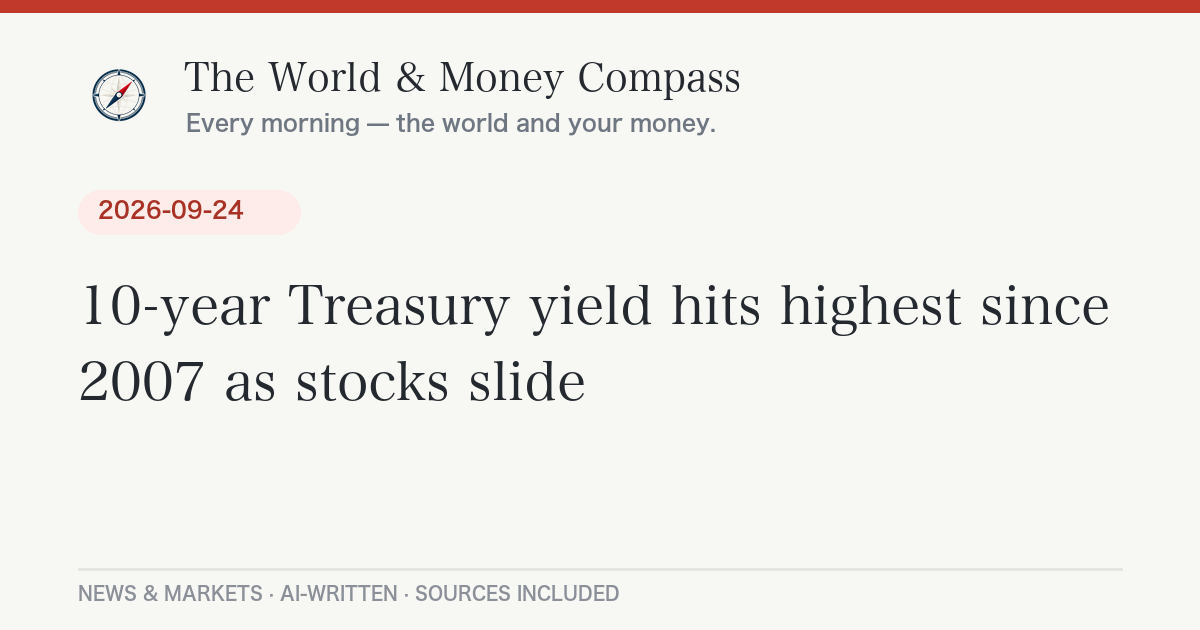
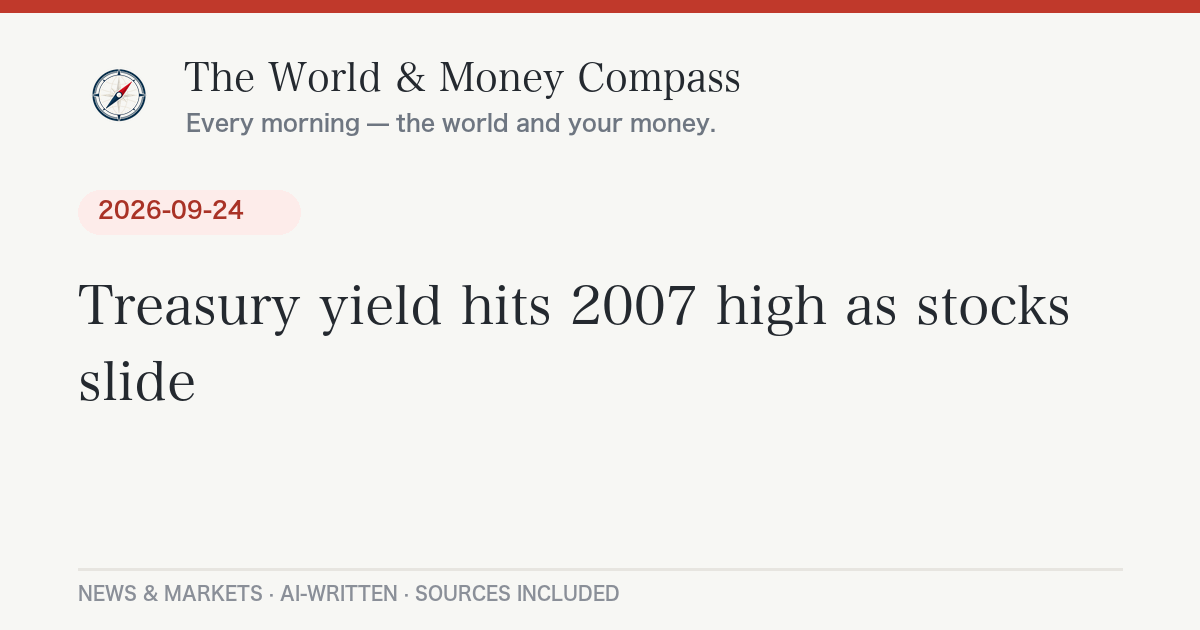
Daily briefing 2026-09-26

Changed region(s): [[0.0617, 0.4524, 0.925, 0.5429], [0.0617, 0.573, 0.4933, 0.6333]]

diff --git a/_posts/2026-09-26-daily-briefing.md b/_posts/2026-09-26-daily-briefing.md
@@ -1,0 +1,109 @@
+---
+layout: post
+lang: ja
+title: "トランプ氏が日米首脳会談で円安に懸念、円は一時157円台に｜9月26日のニュースとお金"
+date: 2026-09-26 07:40:40 +0900
+categories: [ニュース, 経済]
+headline: "トランプ氏が日米首脳会談で円安に懸念、円は一時157円台に"
+permalink: /2026/09/26/daily-briefing/
+---
+
+## 今日のポイント
+
+日米首脳会談でトランプ大統領が「円安」への懸念を伝えていたことが明らかになり、円はいったん買い戻されました。米中は貿易休戦を延長し、中東では停戦に向けた動きへの期待から原油が値下がり。世界の株はそろって上がって週末を迎えましたが、日米とも長期金利は歴史的な高さのままです。
+
+## 今日の羅針盤（Compass Insight）
+
+この1週間を一言でまとめると、「株は強いが、お金を借りるコストは上がり続けている」です。米国の10年国債利回りは2007年以来の水準に達し、日本の長期金利も約30年ぶりの高さにあります。それでも株価が上がっているのは、AI投資の拡大と、米中・中東の緊張が少し和らいだことへの安心感が支えになっているためです。
+
+家計にとって大事なのは、為替の潮目が変わる可能性です。米大統領が首脳会談で円安に触れたことは、日本の財務当局が円安を止める動きをとりやすくなる材料になりえます。円高方向に振れれば、ガソリンや食品など輸入品の値上がりが一服する可能性があります。一方、日本の長期金利の上昇は、固定型の住宅ローン金利や預金金利に少しずつ反映されていきます。これから借りる人・借り換えを考えている人は、金利の動きに注目です。
+
+短期的には、10月のFRB（米国の中央銀行）会合で利上げがあるか、そして中東の停戦協議が本当に前進するかが焦点です。中長期では、日米の金利が「高い状態が当たり前」になるのかどうかが、株式・債券・住宅市場の方向を決めていくことになりそうです。
+
+## 今日のニュース
+
+### 日本
+
+- **トランプ氏が円安に懸念**：22日にニューヨークで開かれた日米首脳会談で、トランプ大統領が足元の円安について懸念を伝えていたことを、片山財務大臣が25日に明らかにしました。高市首相は「一般論として円の過小評価は問題」と応じたとされます。財務大臣が首脳間の為替のやりとりを公表するのは[異例です](https://www.nikkei.com/article/DGXZQOUA2578V0V20C26A9000000/)（[時事通信](https://www.jiji.com/jc/article?k=2026092500477&amp=&g=pol)）。
+- **卓球男子団体、60年ぶりの金**：アジア大会の卓球男子団体決勝で、日本が中国を[3-2で破り、60年ぶりの金メダル](https://news.web.nhk/newsweb/na/nd-20260924de52255)を獲得しました（24日）。張本智和選手が2勝、松島輝空選手も勝利を挙げ、8連覇中だった中国を1-2からの逆転で破りました（[テレ東](https://www.tv-tokyo.co.jp/tabletennis/news/2026/09/042423.html)）。
+- **日経平均は5日続伸**：25日の日経平均は[850円高の6万6,364円](https://www.nikkei.com/article/DGXZQOFL254TJ0V20C26A9000000/)で、6万6,000円台を回復しました。
+
+### 世界
+
+- **米中が貿易休戦を延長**：習近平国家主席の訪米に合わせ、ベッセント財務長官は11月に期限を迎える米中の貿易休戦を[1月10日まで2カ月延長](https://www.cnbc.com/2026/09/24/us-china-trade-truce-bessent-trump-xi.html)すると発表しました。25日に習主席の訪米日程が終わりました。関税の引き下げやレアアース（希土類）輸出規制の停止が続きます。大きな新合意はなく、[「中身より演出」の会談](https://www.cbsnews.com/live-updates/trump-china-xi-jinping-state-visit-dinner-tariffs-ai/)との評価も出ています。
+- **イランが停戦案**：イランが米国に対し、6月の覚書（MOU）への復帰を求めているとの報道で、[ホルムズ海峡の再開期待](https://www.thestreet.com/stock-market-today/stock-market-today-dow-jones-sp-500-nasdaq-updates-sept-25-2026)が高まりました。一方、イエメンのフーシ派がサウジアラビアの都市に向けてミサイルを発射するなど、[緊張も続いています](https://www.thenationalnews.com/business/energy/2026/09/25/oil-prices-waver-in-face-of-iran-war-truce-and-houthi-attacks/)。
+
+### アメリカ
+
+- **米長期金利が高止まり**：10年国債利回りは[5.16%前後](https://www.cnbc.com/2026/09/25/treasury-yields-bonds-debt.html)で週を終えました。前日には2007年6月以来の高水準をつけています。原油高、AI投資ブーム、財政赤字の拡大が[重なった結果](https://www.bloomberg.com/news/articles/2026-09-24/us-treasury-yields-hit-5-as-wall-street-faces-new-rate-regime)とされます。
+- **習主席の訪米が終了**：最終日の25日、両首脳はホワイトハウスで茶会を開いた後、国立公文書館で独立宣言と合衆国憲法を[見学しました](https://edition.cnn.com/2026/09/24/politics/live-news/trump-meeting-china-xi-us-visit)。
+
+### ヨーロッパ
+
+- **ドイツが燃料税を一時引き下げ**：連邦議会がガソリン・軽油にかかる燃料税の一時的な引き下げを[434対128で可決](https://www.riotimesonline.com/europe-intelligence-brief-friday-september-25-2026)し、連邦参議院も同日中に承認しました。原油高への家計対策です。
+- **アテネで爆発**：ギリシャ・アテネの歴史地区プラカで爆発があり、アクロポリス近くの2階建ての建物が倒壊、少なくとも2人がけがをしました。ガス漏れが疑われています（[Rio Times](https://www.riotimesonline.com/europe-intelligence-brief-friday-september-25-2026)）。
+- **ウクライナへ66億ユーロ**：EUは「欧州平和ファシリティ」を通じて[66億ユーロの拠出](https://www.riotimesonline.com/europe-intelligence-brief-friday-september-25-2026)を決め、国防予算の不足に悩むウクライナを支えます。
+
+## 経済とお金の動き
+
+### 世界の経済と原油・相場
+
+| 指標 | 値 | 前日比・動き |
+|---|---|---|
+| NYダウ | [51,828.62ドル](https://www.thestreet.com/stock-market-today/stock-market-today-dow-jones-sp-500-nasdaq-updates-sept-25-2026) | <span class="chg-up">+478.64ドル（+0.93%）</span>（9/25終値） |
+| S&P500 | [7,743.41](https://www.thestreet.com/stock-market-today/stock-market-today-dow-jones-sp-500-nasdaq-updates-sept-25-2026) | <span class="chg-up">+0.51%</span>（9/25終値） |
+| ナスダック総合 | [27,068.72](https://www.thestreet.com/stock-market-today/stock-market-today-dow-jones-sp-500-nasdaq-updates-sept-25-2026) | <span class="chg-up">+0.5%</span>（9/25終値） |
+| 米10年債利回り | [約5.16%](https://www.cnbc.com/2026/09/25/treasury-yields-bonds-debt.html) | ほぼ横ばい（2007年以来の高水準圏） |
+| WTI原油 | [92.41ドル/バレル](https://www.thestreet.com/stock-market-today/stock-market-today-dow-jones-sp-500-nasdaq-updates-sept-25-2026) | <span class="chg-down">-2.33%</span>（9/25清算値） |
+| ブレント原油 | [104.32ドル/バレル](https://www.thestreet.com/stock-market-today/stock-market-today-dow-jones-sp-500-nasdaq-updates-sept-25-2026) | <span class="chg-down">-2.14%</span>（9/25清算値） |
+| ドル円（ECB基準） | [157.59円](https://api.frankfurter.app/latest?from=USD&to=JPY) | <span class="chg-down">-1.26円</span>（9/25基準、前日158.85円・円高方向） |
+
+米国株は3指数そろって上昇し、ダウは3週続落から抜け出して、S&P500・ナスダックとともに[週間でもプラス](https://finance.yahoo.com/markets/live/stock-market-today-friday-september-25-dow-sp-500-nasdaq-081738529.html)になりました。中東の停戦協議への期待で原油が下がったことが、株の買い戻しにつながりました。ただし原油はなおWTIで90ドル台、ブレントで100ドル台と高い水準です。
+
+### アメリカの経済
+
+米国は「景気は強いが、金利は重い」状態が続いています。FRBのバー理事がさらなる政策調整の可能性に触れたこともあり、市場では10月の会合で[0.25%の利上げが行われる確率を約66%](https://www.bloomberg.com/news/articles/2026-09-24/us-treasury-yields-hit-5-as-wall-street-faces-new-rate-regime)と見込んでいます。5年債入札の需要が弱かったことも、国の借金の多さに対する市場の警戒を映しています。
+
+### 日本の経済
+
+| 指標 | 値 | 前日比 |
+|---|---|---|
+| 日経平均株価 | [66,364.20円](https://www.zaikei.co.jp/article/20260925/871232.html) | <span class="chg-up">+850.21円（+1.30%）</span>（9/25終値） |
+| 新発10年国債利回り | [3.049%前後](https://www.zaikei.co.jp/article/20260925/871233.html) | 約30年ぶりの高水準圏 |
+
+日経平均は5日続伸で、終値として6万6,000円台を回復するのは[今月7日以来](https://www.nikkei.com/article/DGXZQOFL250I60V20C26A9000000/)です。AI・半導体株が上げを主導し、金利上昇で利ざや改善が期待される銀行株、9月末の中間配当の権利取りを狙った買いも[広がりました](https://www.nikkei.com/article/DGXZQOFL254TF0V20C26A9000000/)。為替は朝方に[158円台後半](https://www.daily.co.jp/society/economics/2026/09/25/0020857580.shtml)まで円安が進みましたが、財務大臣の発言をきっかけに円が買われ、[一時157円台](https://news.web.nhk/newsweb/na/nd-20260925de52455)まで戻しました。
+
+## 今日の注目銘柄・セクター
+
+- **半導体関連（東京エレクトロン・アドバンテスト）**：米中の休戦延長で「AI投資が加速する」との安心感が広がり、[日経平均の上昇をけん引](https://www.nikkei.com/article/DGXZQOFL250S2TV20C26A9000000/)しました。
+- **銀行株（三菱UFJ・三井住友FG）**：日米で金利が急上昇するなか、貸出の利ざや改善への期待から[買われました](https://www.zaikei.co.jp/article/20260925/871237.html)。
+- **アカマイ・テクノロジーズ（米国）**：AI企業Anthropicと7年間で[116億ドル規模のクラウド契約](https://www.cnbc.com/2026/09/25/shares-of-akamai-surge-after-deal-with-anthropic-what-wall-street-is-saying.html)を結び、株価は[一時16%超上昇](https://247wallst.com/investing/2026/09/25/akamai-surges-15-on-11-6b-anthropic-cloud-deal-coreweave-and-cloudflare-tick-up/)しました。
+- **ナイキ（米国）**：バンク・オブ・アメリカが投資判断を「アンダーパフォーム」に引き下げ、目標株価を47ドルから30ドルに下げたことで[注目を集めました](https://finance.yahoo.com/markets/stocks/articles/nke-stock-slips-premarket-bofa-123222943.html)。決算発表は10月1日の予定です。
+
+*※特定銘柄の売買を推奨するものではありません。投資判断はご自身の責任で。*
+
+## まとめ：注目の3つ
+
+1. **円安けん制の行方**：米大統領の懸念表明で、日本の為替介入のハードルが下がる可能性。輸入品の価格に直結します。
+2. **10月のFRB利上げ**：米長期金利5%台が続くか。住宅ローンや世界の株価への影響に注目。
+3. **中東停戦協議**：ホルムズ海峡が再開されれば原油安→物価の落ち着きにつながる一方、フーシ派の攻撃など不安材料も残ります。
+
+---
+<div class="post-sources" markdown="1">
+
+**出典：**
+- [日本経済新聞：トランプ氏が円安に懸念、日米首脳会談で異例の言及](https://www.nikkei.com/article/DGXZQOUA2578V0V20C26A9000000/)
+- [時事通信：片山財務相「米大統領が円安懸念」](https://www.jiji.com/jc/article?k=2026092500477&amp=&g=pol)
+- [NHK：アジア大会卓球男子団体 日本が中国破り60年ぶり金メダル](https://news.web.nhk/newsweb/na/nd-20260924de52255)
+- [日本経済新聞：日経平均大引け 5日続伸 850円高の6万6364円](https://www.nikkei.com/article/DGXZQOFL254TJ0V20C26A9000000/)
+- [NHK：円相場 一時1ドル＝157円台まで値上がり](https://news.web.nhk/newsweb/na/nd-20260925de52455)
+- [CNBC: Trump, Xi wrap state visit — top takeaways](https://www.cnbc.com/2026/09/25/trump-xi-summit-takeaways.html)
+- [TheStreet: Stock Market Today (Sept. 25, 2026)](https://www.thestreet.com/stock-market-today/stock-market-today-dow-jones-sp-500-nasdaq-updates-sept-25-2026)
+- [CNBC: 10-year Treasury yield is little changed to end a volatile week](https://www.cnbc.com/2026/09/25/treasury-yields-bonds-debt.html)
+- [The National: Oil prices waver in face of Iran war truce and Houthi attacks](https://www.thenationalnews.com/business/energy/2026/09/25/oil-prices-waver-in-face-of-iran-war-truce-and-houthi-attacks/)
+- [The Rio Times: Europe Intelligence Brief — September 25, 2026](https://www.riotimesonline.com/europe-intelligence-brief-friday-september-25-2026)
+- 市場データ: [frankfurter API](https://api.frankfurter.app/) ／ 各社報道（Yahoo Finance APIは取得不可のため検索で確認）
+
+*本記事は公開情報をもとに作成しています。*
+
+</div>

diff --git a/_posts/2026-09-26-daily-briefing-en.md b/_posts/2026-09-26-daily-briefing-en.md
@@ -1,0 +1,54 @@
+---
+layout: post
+lang: en
+title: "Stocks post weekly gains as Iran peace hopes pull oil lower — September 26, 2026"
+date: 2026-09-26 07:40:40 +0900
+headline: "Stocks post weekly gains as Iran peace hopes pull oil lower"
+permalink: /2026/09/26/daily-briefing/
+---
+
+## Top U.S. Stories
+
+- **Wall Street ends a volatile week higher.** The Dow rose [478.64 points (+0.93%) to 51,828.62](https://www.thestreet.com/stock-market-today/stock-market-today-dow-jones-sp-500-nasdaq-updates-sept-25-2026) on Friday, snapping a three-week losing streak, while the S&P 500 and Nasdaq also [notched weekly wins](https://finance.yahoo.com/markets/live/stock-market-today-friday-september-25-dow-sp-500-nasdaq-081738529.html).
+  *Why it matters:* Equities are holding up even as borrowing costs sit near multi-decade highs — a sign investors are still betting on AI-driven growth.
+- **U.S. and China extend their trade truce.** Treasury Secretary Scott Bessent said earlier in the week that the truce will run [until Jan. 10, a two-month extension](https://www.cnbc.com/2026/09/24/us-china-trade-truce-bessent-trump-xi.html), keeping lower tariffs and Beijing's suspension of rare-earth export controls in place. Xi Jinping's state visit ended with tea at the White House and a [tour of the National Archives](https://edition.cnn.com/2026/09/24/politics/live-news/trump-meeting-china-xi-us-visit), but [few major new deals](https://www.cbsnews.com/live-updates/trump-china-xi-jinping-state-visit-dinner-tariffs-ai/).
+  *Why it matters:* The extension removes a near-term tariff cliff for companies and farmers, but the bigger deal remains unresolved.
+- **Treasury yields stay near 19-year highs.** The 10-year yield ended the week around [5.16%](https://www.cnbc.com/2026/09/25/treasury-yields-bonds-debt.html) after hitting its highest level since June 2007 on Thursday. Markets see roughly a [66% chance of a quarter-point Fed hike](https://www.bloomberg.com/news/articles/2026-09-24/us-treasury-yields-hit-5-as-wall-street-faces-new-rate-regime) next month.
+  *Why it matters:* Higher long-term rates feed directly into mortgage and business borrowing costs.
+- **Trump raised yen weakness with Japan's leader.** Japan's finance minister disclosed that President Trump voiced concern about the weak yen at a Sept. 22 summit with Prime Minister Takaichi, an [unusual step for leader-level talks](https://www.nikkei.com/article/DGXZQOUA2578V0V20C26A9000000/).
+- **Oil slides on Iran diplomacy.** Iran has asked the U.S. to return to a June memorandum of understanding, lifting hopes that the [Strait of Hormuz could reopen](https://www.thestreet.com/stock-market-today/stock-market-today-dow-jones-sp-500-nasdaq-updates-sept-25-2026), though Houthi missile launches toward Saudi cities [kept tensions high](https://www.thenationalnews.com/business/energy/2026/09/25/oil-prices-waver-in-face-of-iran-war-truce-and-houthi-attacks/).
+
+## Compass Insight
+
+This week's message is simple: stocks are strong, but money is getting expensive. The 10-year Treasury yield is at levels last seen before the 2008 financial crisis, and Japan's long-term yields are near 30-year highs. Equities keep climbing anyway, supported by the AI investment boom and modest relief on U.S.-China trade and Middle East diplomacy. That combination is fragile. If Iran talks stall and oil pushes higher again, inflation fears could return quickly and pressure both bonds and stocks. In the near term, watch the October Fed meeting and any concrete progress on Hormuz. Over the longer run, the key question is whether 5%-plus yields become the new normal — which would reshape valuations, housing, and government budgets alike.
+
+## Markets
+
+- Dow: [51,828.62](https://www.thestreet.com/stock-market-today/stock-market-today-dow-jones-sp-500-nasdaq-updates-sept-25-2026) (+0.93%); S&P 500: 7,743.41 (+0.51%); Nasdaq: 27,068.72 (+0.5%)
+- WTI crude: [$92.41/bbl (-2.33%)](https://www.thestreet.com/stock-market-today/stock-market-today-dow-jones-sp-500-nasdaq-updates-sept-25-2026); Brent: $104.32 (-2.14%)
+- 10-year Treasury: about [5.16%](https://www.cnbc.com/2026/09/25/treasury-yields-bonds-debt.html)
+- USD/JPY: [157.59](https://api.frankfurter.app/latest?from=USD&to=JPY) (ECB reference, Sept. 25), down from 158.85
+- Nikkei 225: [66,364.20 (+1.30%)](https://www.zaikei.co.jp/article/20260925/871232.html), a fifth straight gain
+
+## Stocks in Focus
+
+- **Akamai (AKAM):** Signed an [$11.6 billion, seven-year cloud computing deal with Anthropic](https://www.cnbc.com/2026/09/25/shares-of-akamai-surge-after-deal-with-anthropic-what-wall-street-is-saying.html); shares [briefly jumped more than 16%](https://247wallst.com/investing/2026/09/25/akamai-surges-15-on-11-6b-anthropic-cloud-deal-coreweave-and-cloudflare-tick-up/).
+- **Nike (NKE):** Bank of America [downgraded the stock to Underperform](https://finance.yahoo.com/markets/stocks/articles/nke-stock-slips-premarket-bofa-123222943.html) and cut its price target to $30 from $47, citing a longer turnaround. Earnings are due Oct. 1.
+
+---
+<div class="post-sources" markdown="1">
+
+**Sources:**
+- [TheStreet: Stock Market Today (Sept. 25, 2026)](https://www.thestreet.com/stock-market-today/stock-market-today-dow-jones-sp-500-nasdaq-updates-sept-25-2026)
+- [Yahoo Finance: Dow, S&P 500, Nasdaq notch weekly wins](https://finance.yahoo.com/markets/live/stock-market-today-friday-september-25-dow-sp-500-nasdaq-081738529.html)
+- [CNBC: Trump, Xi summit takeaways](https://www.cnbc.com/2026/09/25/trump-xi-summit-takeaways.html)
+- [CNBC: 10-year Treasury yield little changed to end a volatile week](https://www.cnbc.com/2026/09/25/treasury-yields-bonds-debt.html)
+- [Bloomberg: US Treasury Yields Hit 5%](https://www.bloomberg.com/news/articles/2026-09-24/us-treasury-yields-hit-5-as-wall-street-faces-new-rate-regime)
+- [Nikkei: Trump voiced concern over weak yen at Japan-U.S. summit](https://www.nikkei.com/article/DGXZQOUA2578V0V20C26A9000000/)
+- [The National: Oil prices waver in face of Iran war truce and Houthi attacks](https://www.thenationalnews.com/business/energy/2026/09/25/oil-prices-waver-in-face-of-iran-war-truce-and-houthi-attacks/)
+- [CNBC: Shares of Akamai surge after deal with Anthropic](https://www.cnbc.com/2026/09/25/shares-of-akamai-surge-after-deal-with-anthropic-what-wall-street-is-saying.html)
+- Market data: [frankfurter API](https://api.frankfurter.app/) and news reports
+
+*Auto-generated and AI-written. Not investment advice.*
+
+</div>
